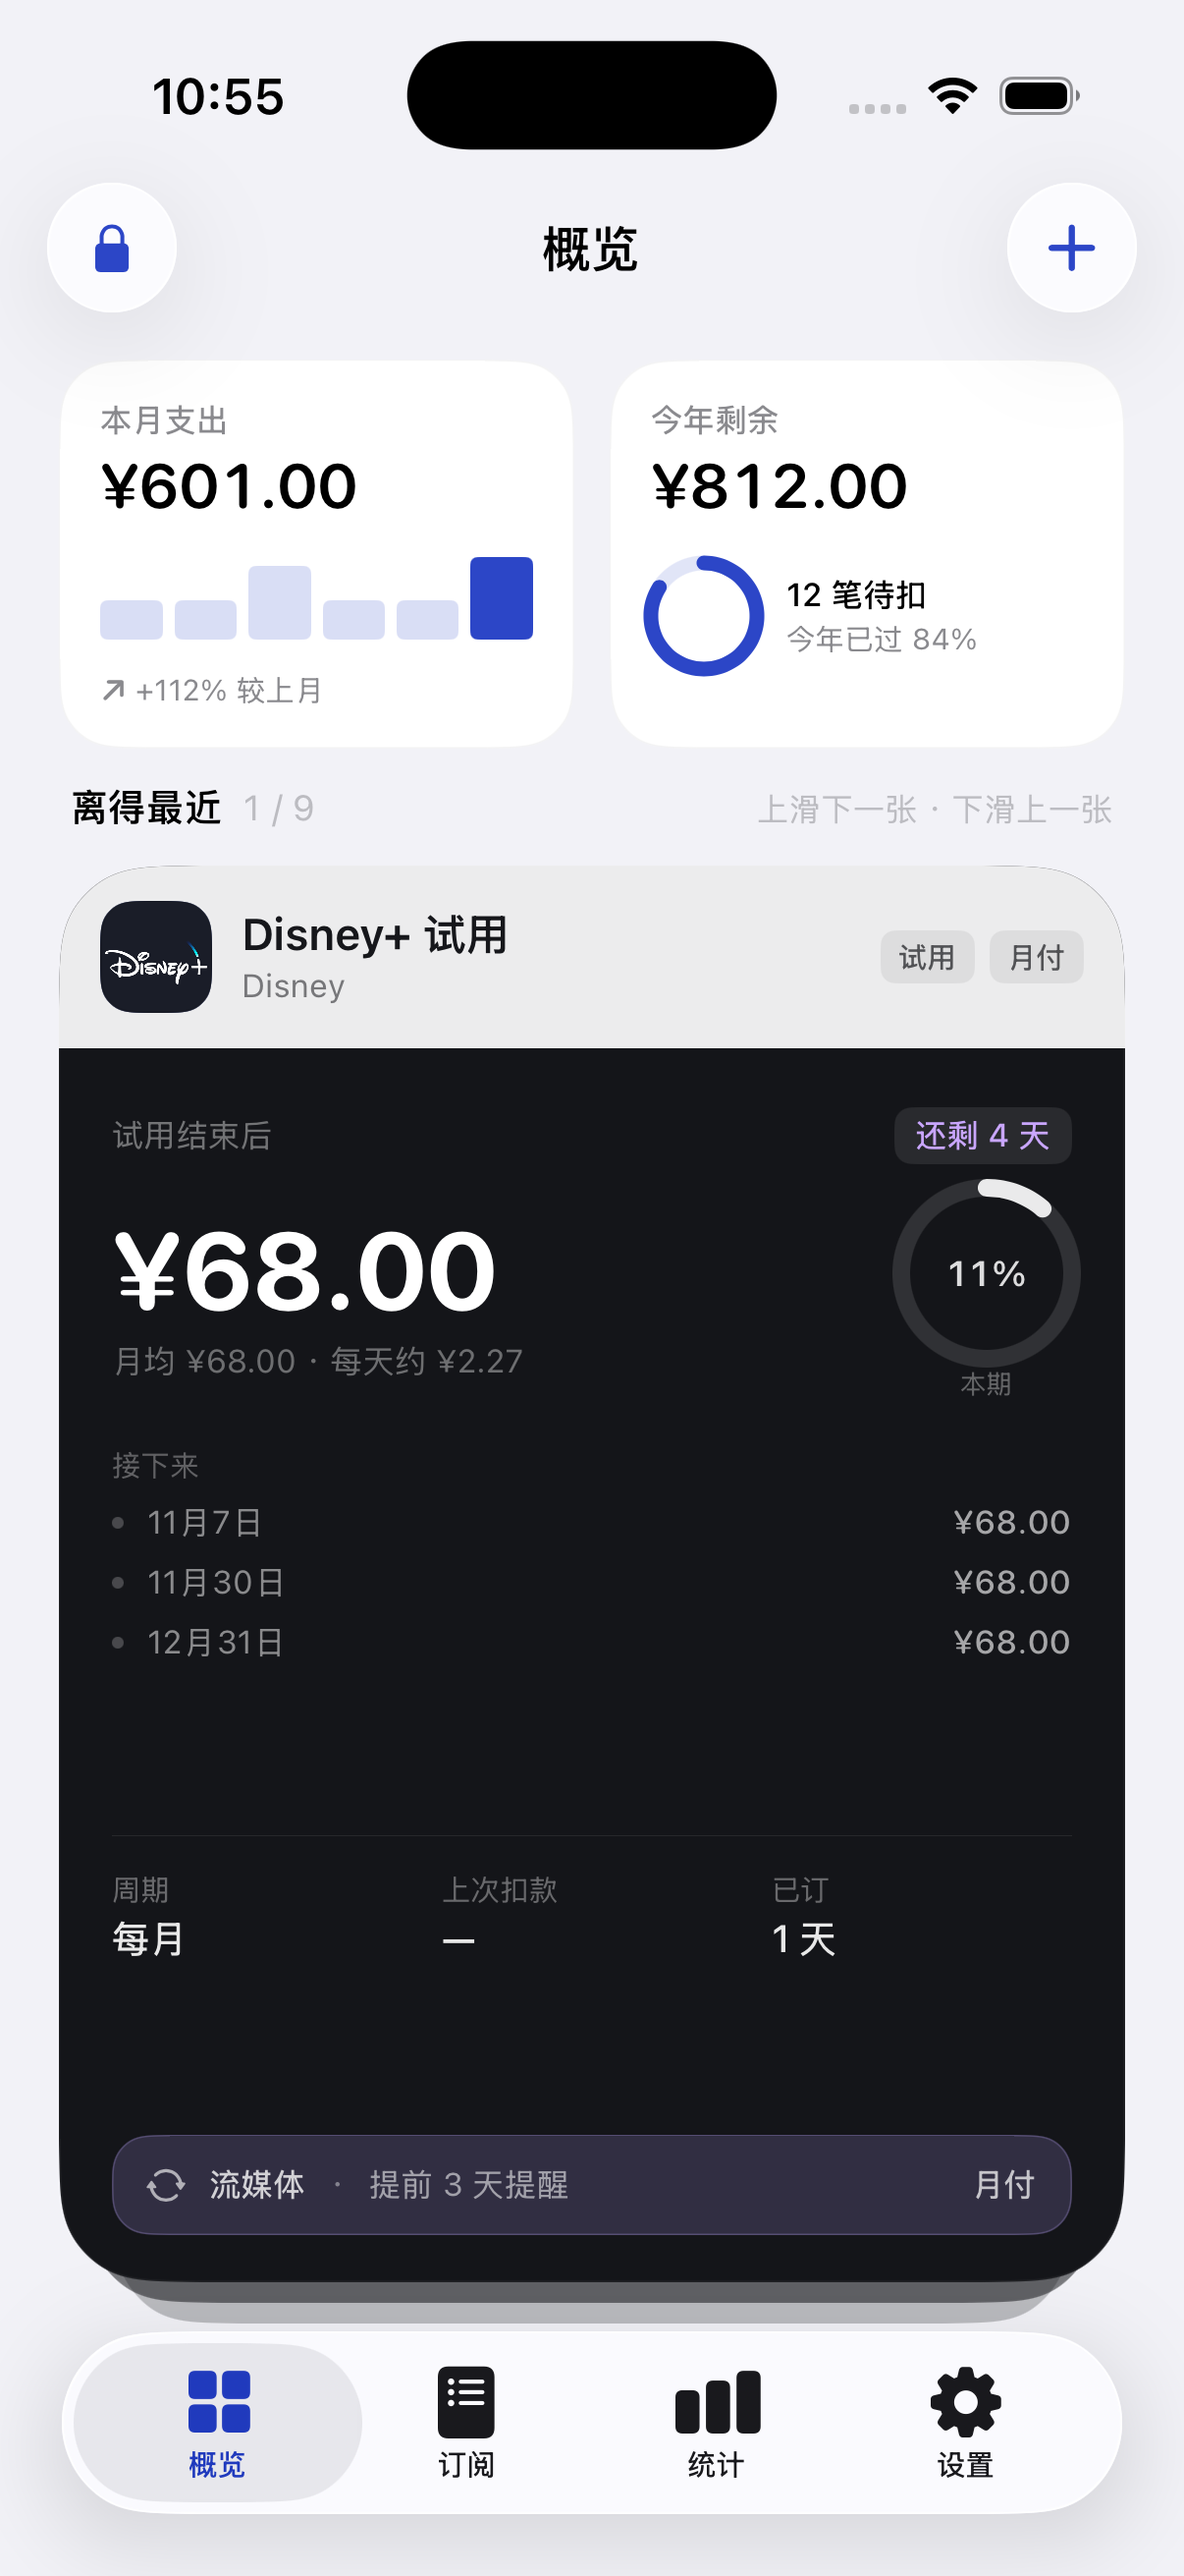
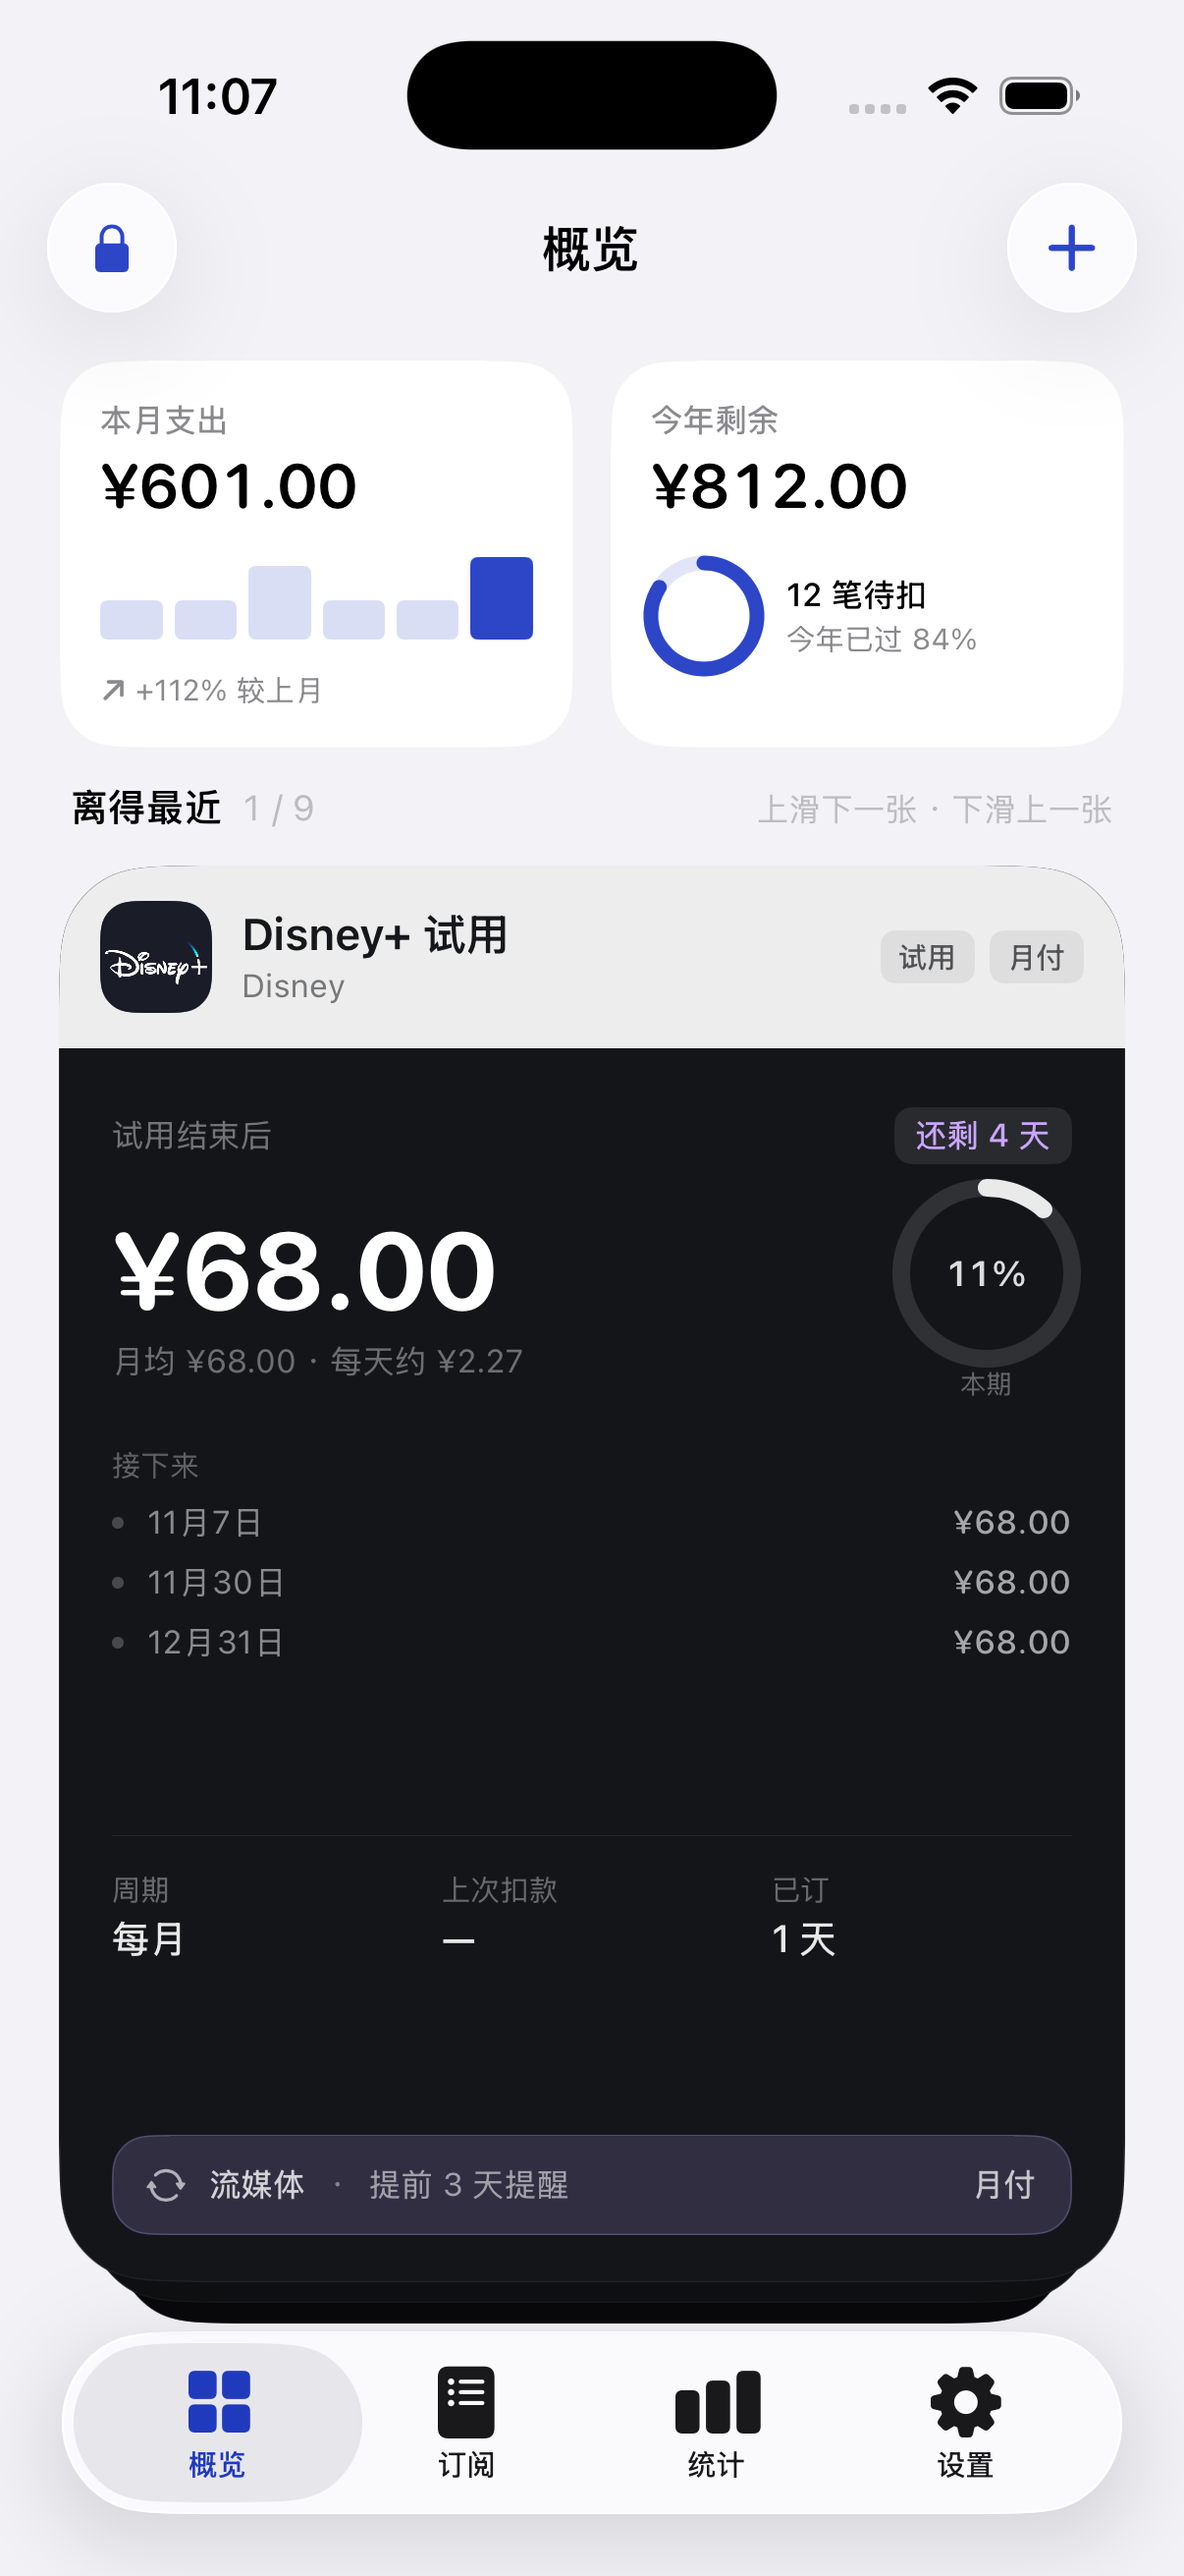
fix(home): 顶部黑边修复 + 掉帧优化
- 黑边根因：整卡 .opacity 半透明叠加在圆角边缘露深色缝；顶部横条改 UnevenRoundedRectangle
  顶部两角 32 圆角铺满上沿，去掉整卡 opacity 离屏合成
- 掉帧：卡片去掉连续值 depth（原来每帧触发派生计算），彻底静态化只持有 subscription+isDark
- 后面的卡变淡改回 deck 层纯色 overlay（合并单次绘制），transform 全走 GPU 合成
- 拖动时每帧仅 4 张卡 transform + 一层纯色 overlay，无布局无 body 重算

版本 1.1.9（build 12）。

Changed region(s): [[0.092, 0.865, 0.8897, 0.9268], [0.1227, 0.0309, 0.2454, 0.0618]]

diff --git a/packages/WSubscriptionKit/Sources/WSFeatures/Dashboard/DashboardView.swift b/packages/WSubscriptionKit/Sources/WSFeatures/Dashboard/DashboardView.swift
@@ -217,8 +217,15 @@ private struct SubscriptionDeck: View {
         return SubscriptionDeckCard(subscription: entry.item, isDark: colorScheme == .dark)
             .equatable()
             .frame(height: height)
-            // 后面的卡逐个递减透明度，淡入页面背景，比压黑更轻
-            .opacity(stackOpacity(d))
+            // 后面的卡叠一层黑表达层次：这个 overlay 是纯色，SwiftUI 会把它合并成一次绘制，
+            // 不触发卡片内容的 body 重算（卡片的 Equatable 只比 subscription + isDark）
+            .overlay {
+                if d > 0 {
+                    RoundedRectangle(cornerRadius: 32, style: .continuous)
+                        .fill(.black.opacity(0.30 * Double(min(2, d))))
+                        .allowsHitTesting(false)
+                }
+            }
             .scaleEffect(x: scaleX(d), y: 1, anchor: .top)
             .offset(y: offset(d, height: height))
             .zIndex(zIndex(for: i))
@@ -227,12 +234,6 @@ private struct SubscriptionDeck: View {
     }
 
     // MARK: 变换：d 的单一连续函数（没有 index 分支，这是消除跳动的关键）
-
-    /// 堆叠中的卡逐个递减透明度：第一张 0.55，第二张 0.28，淡进背景。
-    private func stackOpacity(_ d: CGFloat) -> Double {
-        guard d > 0 else { return 1 }
-        return max(0.25, 1 - 0.45 * Double(min(2, d)))
-    }
 
     /// 堆叠中的卡只横向收窄（不缩高度）：
     /// 高度不变 + 向下偏移，底部才能露出一条边；等比缩小会把露边抵消掉。
@@ -445,7 +446,8 @@ private struct SubscriptionDeckCard: View, Equatable {
     nonisolated let subscription: Subscription
     nonisolated let isDark: Bool
 
-    /// 拖动时外层每帧都会重新构建这个值；相等就跳过 body，避免整张卡重排
+    /// 拖动时外层每帧都会重建这个值；相等就跳过 body，避免整张卡重排。
+    /// 卡片不持有任何随 position 变化的字段，淡入效果在 deck 层的 overlay 上完成。
     nonisolated static func == (lhs: SubscriptionDeckCard, rhs: SubscriptionDeckCard) -> Bool {
         lhs.subscription == rhs.subscription && lhs.isDark == rhs.isDark
     }
@@ -515,6 +517,10 @@ private struct SubscriptionDeckCard: View, Equatable {
         .frame(height: 62)
         .frame(maxWidth: .infinity)
         .background(.white.opacity(colorScheme == .dark ? 0.88 : 0.92))
+        // 顶部横条覆盖卡片顶部两个圆角，避免圆角处露出深色背景形成黑边
+        .clipShape(UnevenRoundedRectangle(topLeadingRadius: 32, bottomLeadingRadius: 0,
+                                          bottomTrailingRadius: 0, topTrailingRadius: 32,
+                                          style: .continuous))
     }
 
     private func bandTag(_ text: String) -> some View {

diff --git a/docs/开发方案.md b/docs/开发方案.md
@@ -1155,3 +1155,22 @@ iOS 26 的选择器只对**可写目录**启用「打开」；再叠加侧载签
 - **露出太多**：stackGap 11 → 7，两条边分别露 7pt / 14pt。
 - **逐个递减透明度**：后面的卡去掉压黑遮罩，改整卡 opacity（第一张 0.55、第二张 0.25 保底），淡入页面背景。
 - 卡片圆角 26 → 32，淡紫横条圆角 11 → 13，边缘不再锐利。
+
+### 17.17 黑边修复 + 掉帧优化（v1.1.9）
+
+**左上右上黑边**
+
+根因：堆叠的淡入效果用了整卡 `.opacity()`，半透明叠加在圆角边缘与后面的深色卡交错，顶部圆角处露出深色背景缝（尤其 headerBand 只在中间、两角是深色卡体）。修法：
+
+- 顶部横条用 `UnevenRoundedRectangle` 顶部两角 32 圆角，铺满卡片上沿，圆角内不留深色缝。
+- 去掉整卡 `.opacity` 离屏合成。
+
+**掉帧**
+
+上一版给 `SubscriptionDeckCard` 传了连续值 `depth`，虽然 `Equatable` 不比较它，但 body 里的派生计算（upcoming/progress/subscribedText）仍随每帧重建被触发。修法：
+
+- 卡片彻底静态化：只持有 `subscription + isDark`，不持有任何随 position 变化的字段。
+- 「后面的卡变淡」改回 deck 层的纯色 `.black.opacity()` overlay，SwiftUI 把它合并成单次绘制，不触发卡片 body 重算。
+- 卡片 transform（scaleX/offset/zIndex）全部是 GPU 合成，不重排布局。
+
+这已是 SwiftUI 下能做的极限：拖动时每帧只做 4 张卡的 transform 合成 + 一层纯色 overlay，无布局、无 body 重算。
